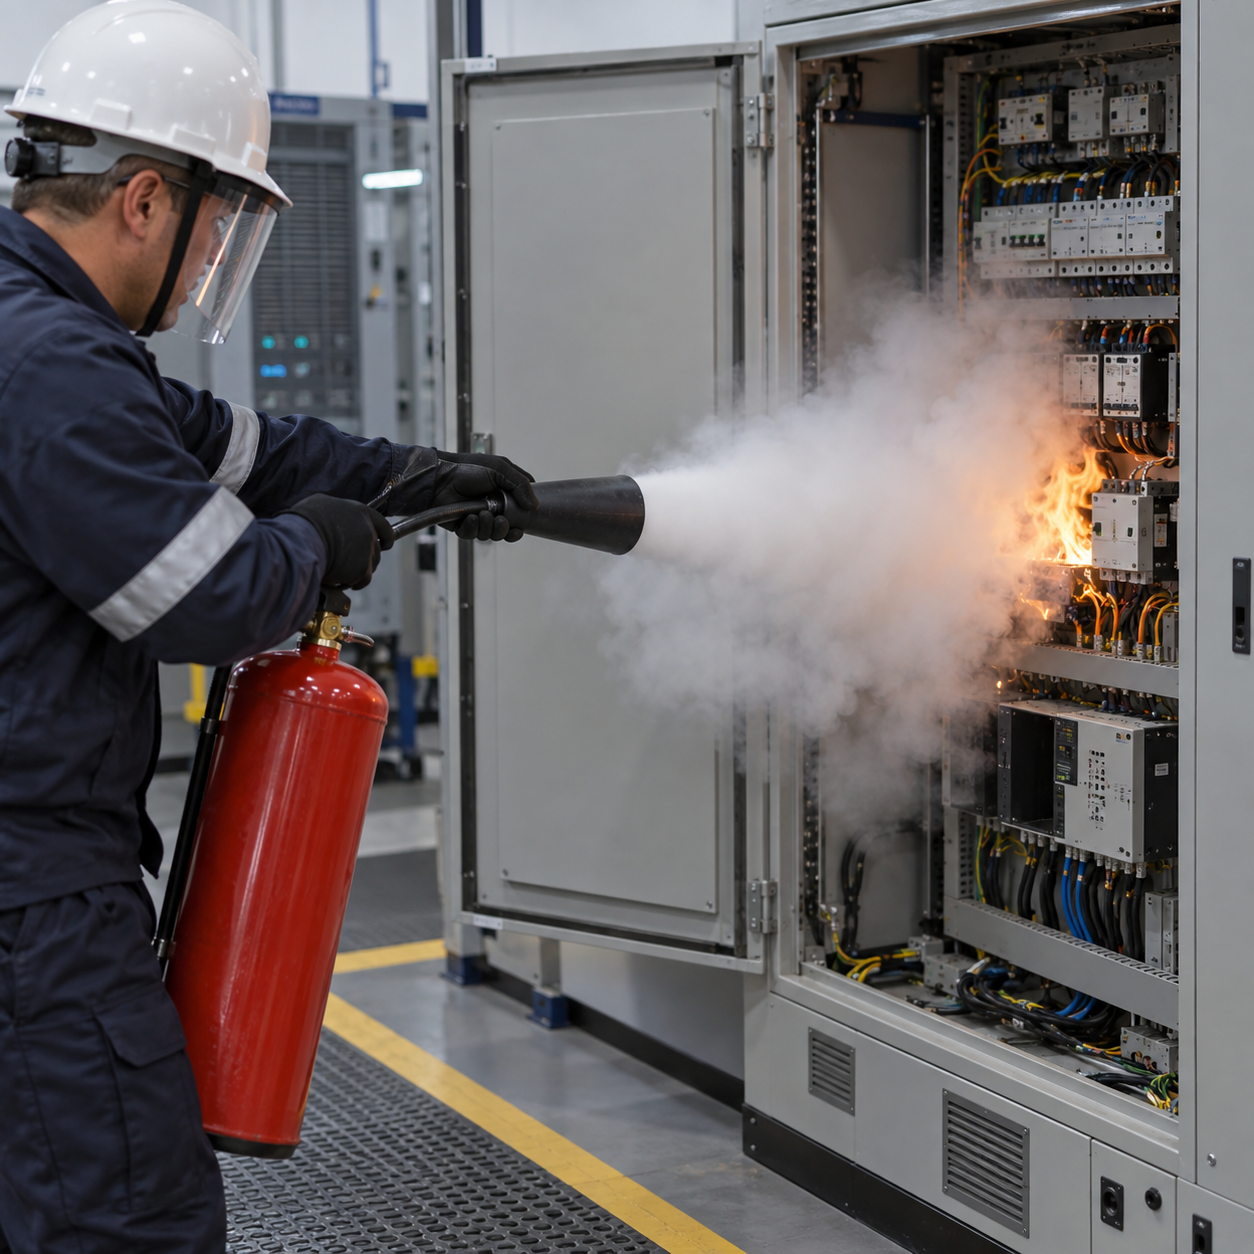
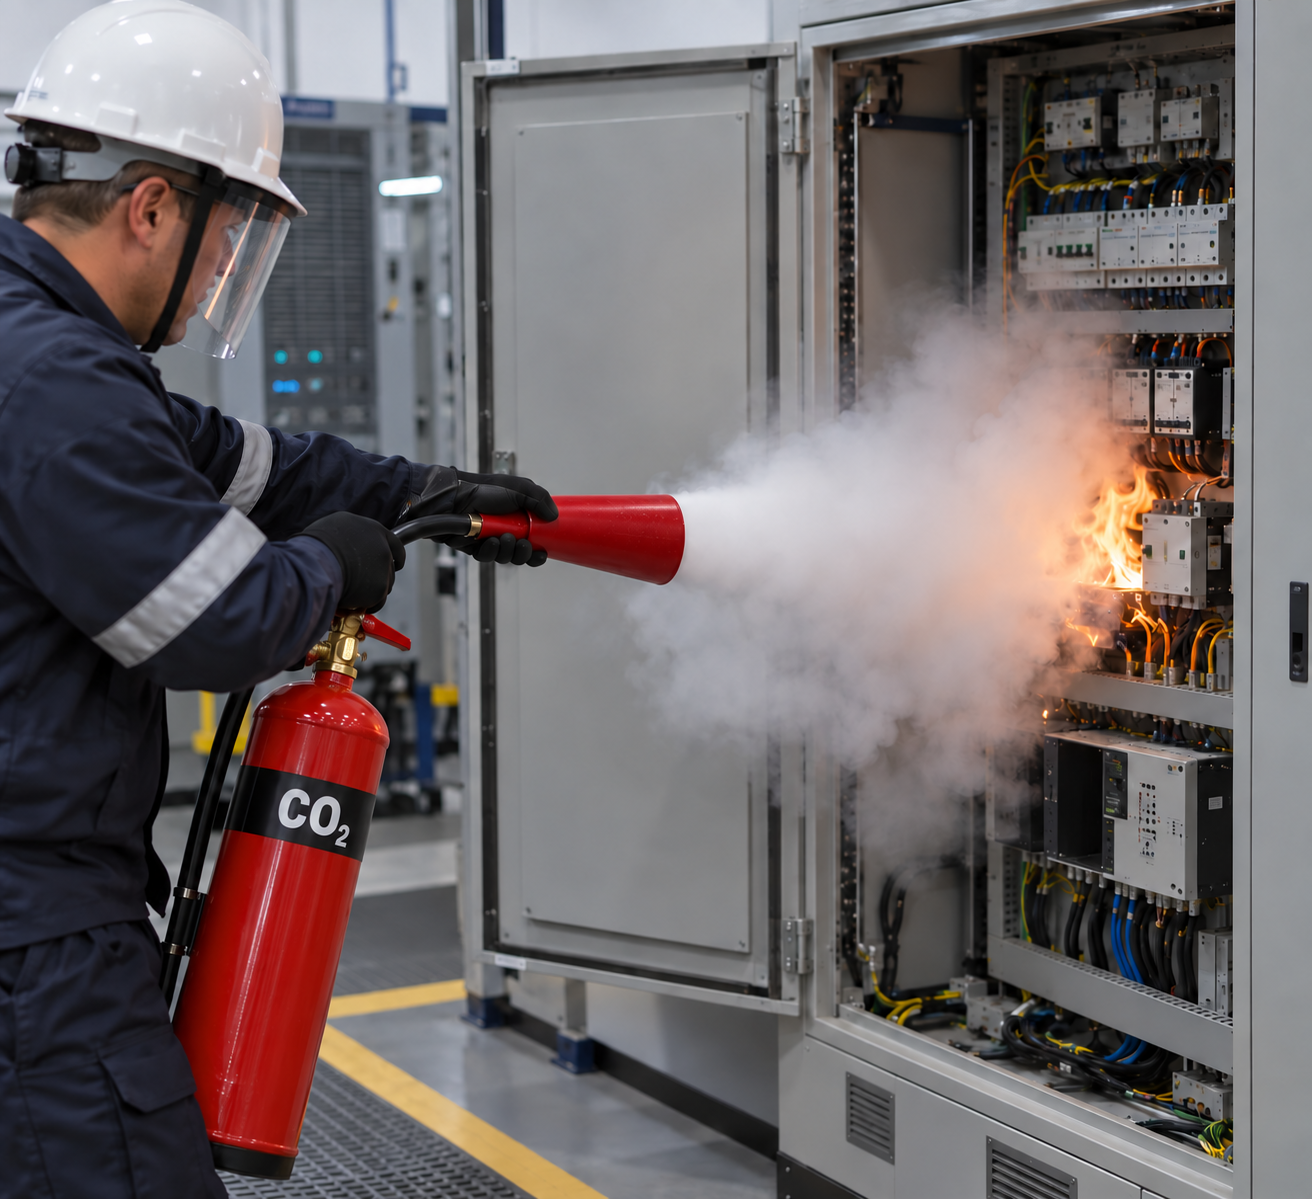
Atualizar foto do CO₂ e vídeo de encerramento na página 61.

diff --git a/question-screen-data.js b/question-screen-data.js
@@ -483,7 +483,7 @@ window.QUESTION_SCREEN_SESSION = {
               "title": "Gás Carbônico (CO₂)",
               "lead": "Classes B e C",
               "body": "Painéis e equipamentos elétricos sensíveis — sem deixar resíduos.",
-              "image": "assets/fotos/m3-gas.png",
+              "image": "assets/fotos/m3-gas.png?v=nova",
               "imageAlt": "Extintor de gás carbônico em painel elétrico",
               "tone": "co2"
             }
@@ -1298,8 +1298,8 @@ window.QUESTION_SCREEN_SESSION = {
           "kicker": "🎥 Vídeo",
           "title": "Encerramento: Você Está Pronto",
           "duration": "0:30",
-          "embed": "https://player-vz-d35edf2a-8e7.tv.pandavideo.com.br/embed/?v=4821065b-d6e7-4715-aa3e-3ce8cdf013d9",
-          "playerId": "panda-4821065b-d6e7-4715-aa3e-3ce8cdf013d9",
+          "embed": "https://player-vz-d35edf2a-8e7.tv.pandavideo.com.br/embed/?v=4c34f17a-7980-47b3-8a60-675ab644f04e",
+          "playerId": "panda-4c34f17a-7980-47b3-8a60-675ab644f04e",
           "scene": "Brigadista confiante no corredor + logo FEMSA",
           "brief": "Mensagem final e frase de fechamento do material NR 23.",
           "body": "Todos têm o direito de viver em um ambiente seguro, sem correr riscos desnecessários e sem receios de danos à sua saúde e vida. Você concluiu o NR 23 Básico — esteja sempre pronto.",

diff --git a/sessao-aprender.html b/sessao-aprender.html
@@ -149,7 +149,7 @@
 
   <audio id="bg-music" loop preload="metadata" aria-hidden="true"></audio>
 
-  <script src="question-screen-data.js?v=mangueiraJpg"></script>
+  <script src="question-screen-data.js?v=encerrarVideo"></script>
   <script src="question-screen.js?v=agentsCards"></script>
   <script src="narration-text.js?v=basic6"></script>
   <script src="narration.js?v=tts6"></script>
